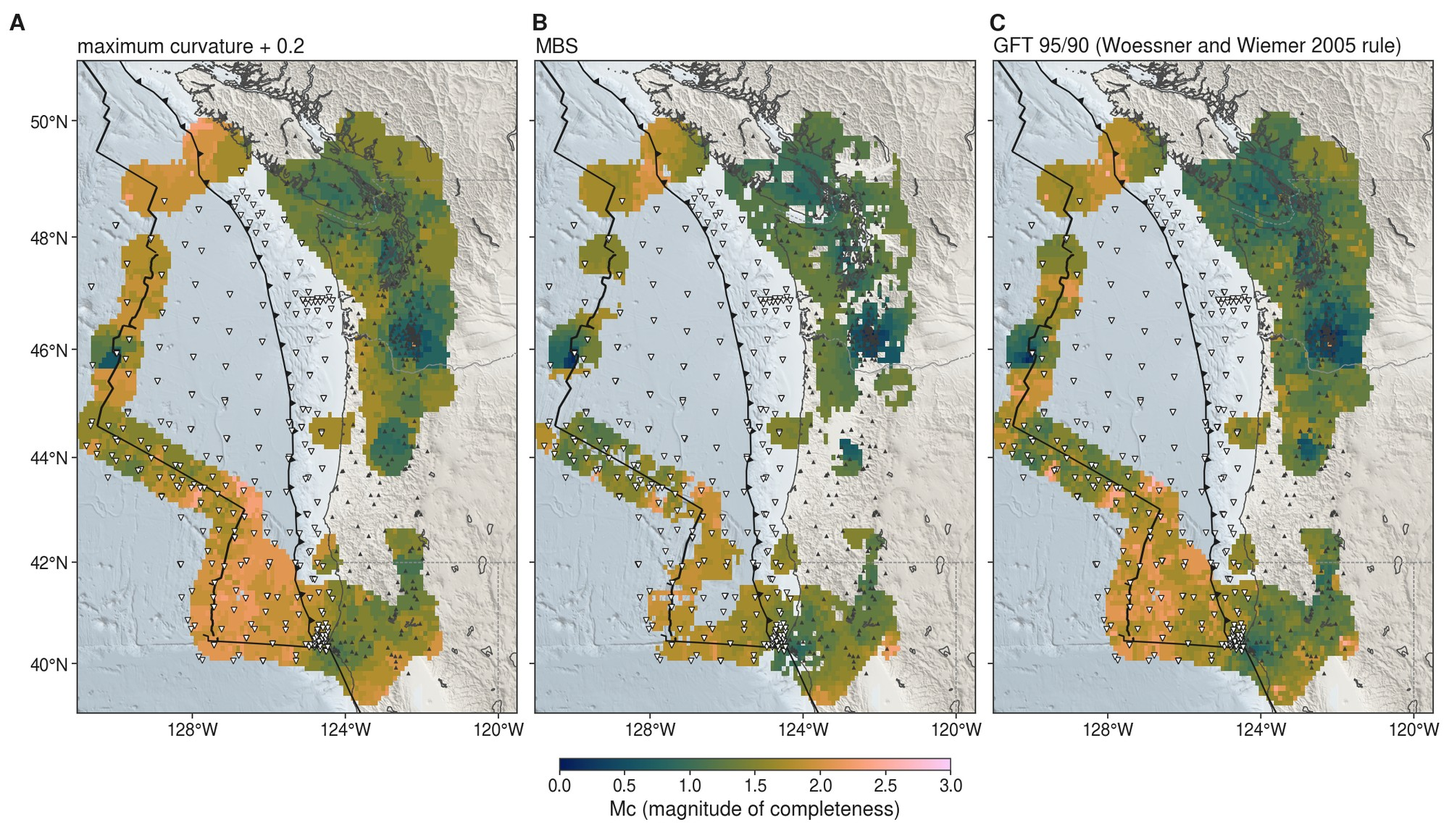
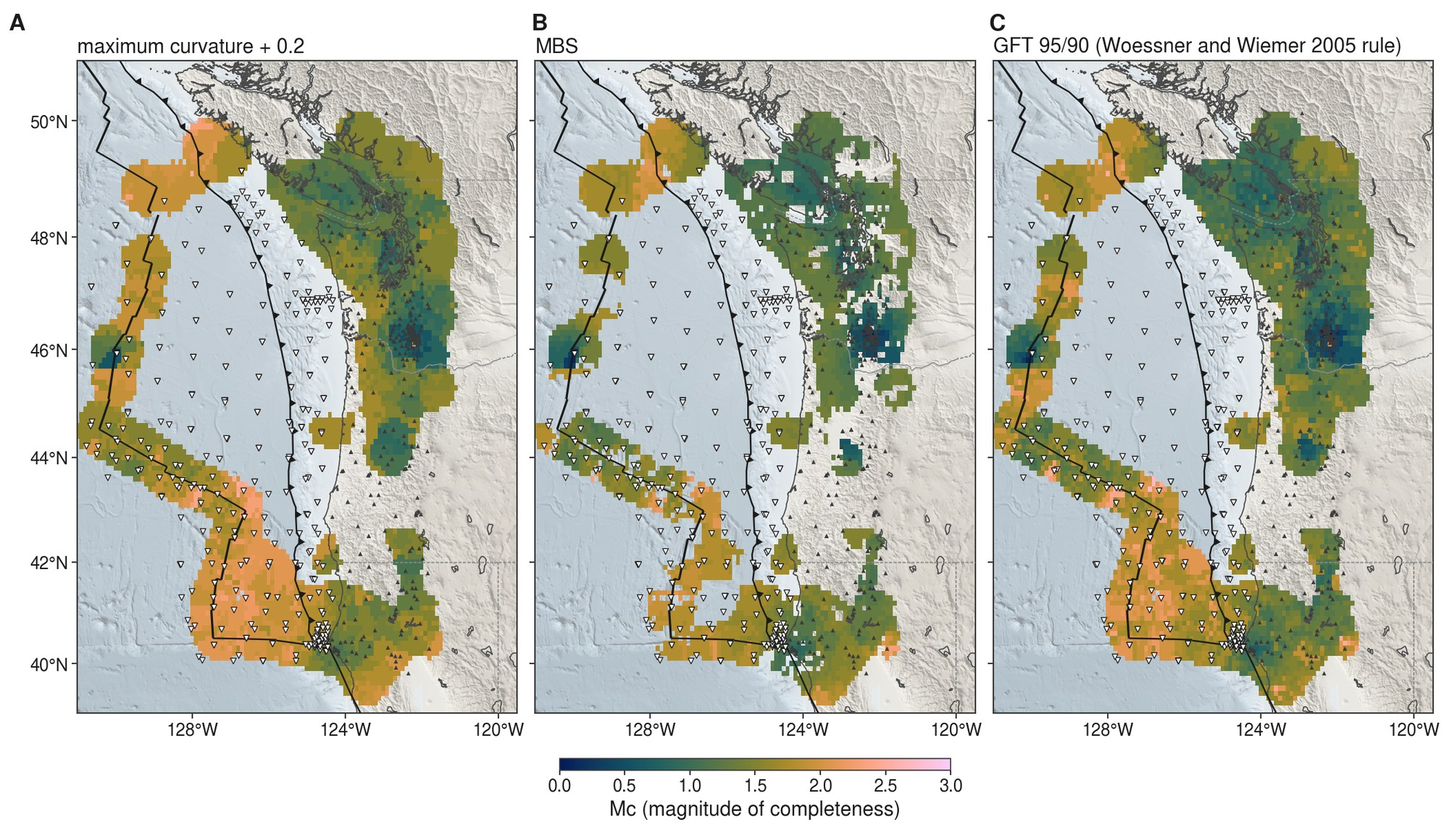
Reports hub: paper figures v2 rebuilt on plate boundaries v2 (D-B117) and the final null truth

diff --git a/reports/figures_v2/index.html b/reports/figures_v2/index.html
@@ -31,12 +31,13 @@ code { padding: 1px 4px; }
 <div class='meta'>D-B114 (PI 2026-11-27 13:13: "Make the paper figures more beautiful, even for the tomography"). Framing
 D-B107/D-B109: seismicity style and fault-zone structure at the offshore plate boundaries; structure only at
 plate-boundary scale (40 km); no full-size model maps. Catalog v6.1, model v0.4.2, segments
-after D-B113. Built Fri 27 Nov 2026 13:53 PST; branch paper/figures-v2 at 922d7582. Working page; nothing here is in
+on the adopted plate boundaries v2 (D-B117, PI 2026-11-27 19:09 PST), structure contrasts with the null-truth control
+scored (D-B112, 28 contrasts claimed). Built Fri 27 Nov 2026 19:30 PST; branch paper/figures-v2 at b96fbab8. Working page; nothing here is in
 paper_sciadv/figures/ yet (the PI picks first).</div>
 <div class='meta'>Web copies: JPEG, 2000 px wide. Full-resolution PDF (vector) and 300 dpi PNG are in <code>/wd1/mdenolle_data/paper_plan/figures_v2/</code>.</div>
 <p class='toc'><a href='#fig1_overview'>Fig. 1</a><a href='#fig2_fingerprint'>Fig. 2</a><a href='#fig3_fault_geometry'>Fig. 3</a><a href='#fig4_fault_zone_sections'>Fig. 4</a><a href='#fig5_structure_seismicity'>Fig. 5</a><a href='#fig6_temporal'>Fig. 6</a><a href='#figS_mc_methods'>Fig. S</a><a href='#figS_mc_periods'>Fig. S</a><a href='#figS_catalog_compare'>Fig. S</a><a href='#figS_perspective_mendocino'>Fig. S</a> <a href='#style'>Style</a> <a href='#rerun'>Rerun</a></p>
-<h2 id='main'>Main figures</h2><div class='fig' id='fig1_overview'><h3>Fig. 1 · Plate boundaries and data</h3><div class='meta'>17.8 × 17.7 cm · <a href='fig1_overview.jpg'>image</a> · built 2026-11-27 13:51:24 PST</div><a href='fig1_overview.jpg'><img loading='lazy' src='fig1_overview.jpg' alt='Fig. 1 · Plate boundaries and data'></a><div class='cap'><b>Caption draft.</b> Plate boundaries and data. (A) 135,317 tier A-C earthquakes of catalog v6.1 (flagged events and the waveform-review P1 set left out), coloured by the type of their segment; symbol size scales with magnitude (events without a magnitude drawn at M 0). Labels: segment codes; label fill gives the structure class of model v0.4.2 near the segment (black resolved, grey marginal, white not resolved). Black lines: plate boundaries (spreading axes of the southern Gorda Ridge, the Gorda-Mendocino stub and the Juan de Fuca Ridge at 46.4-47.7°N picked from the bathymetry, D-B113; PB2002 elsewhere); teeth on the upper plate. Arrows: NNR-MORVEL56 relative plate motions. Relief: GMRT. (B) 351 ocean-bottom stations (inverted triangles, colour = first year, 2009-2014) and 377 land stations (open triangles) with picks in the catalog. (C) Depth against longitude for the 104,642 depth-good events, same colours; lines: Slab2 at 42, 45 and 48°N. (D) Events per week (7-day bins). (E) Ocean-bottom and land stations operating per week.</div><div class='ba'><details><summary>Before: current paper figure fig1_overview.png</summary><img loading='lazy' src='before/fig1_overview.jpg' alt='current paper figure fig1_overview.png'></details></div></div><div class='fig' id='fig2_fingerprint'><h3>Fig. 2 · Seismicity-style fingerprint</h3><div class='meta'>17.8 × 10.02 cm · <a href='fig2_fingerprint.jpg'>image</a> · built 2026-11-27 13:51:24 PST</div><a href='fig2_fingerprint.jpg'><img loading='lazy' src='fig2_fingerprint.jpg' alt='Fig. 2 · Seismicity-style fingerprint'></a><div class='cap'><b>Caption draft.</b> Seismicity style of 19 plate-boundary segments of catalog v6.1 (tier A-C earthquakes; flagged events and the waveform-review P1 set left out), grouped by boundary type (colour and marker). Events: number of events. Mc: maximum curvature + 0.2; b: Aki-Utsu estimate above Mc; bars: 95 % intervals over 500 bootstrap draws. Family mix: shares of the events above the clustering Mc that are background, in mainshock-aftershock families, in swarms and in multiplets (nearest-neighbour clustering of the catalog); swarm share with its 95 % bootstrap interval over units. Depth below the solid surface (ground or seafloor) of depth-good events: p10-p90 bar and median (open symbol: depth class fair, median σz 3-6 km; no symbol: fewer than 50 depth-good events). Burstiness (σ − μ)/(σ + μ) of the inter-event times of events above the segment Mc. Square at the right of each label: structure class of model v0.4.2 near the segment (filled resolved, grey marginal, open not resolved). Segments: AX, JR, EN, EXR, GR, BL, MFZ, SOV, JP, GP, EXP, MTJ, GS, FA, SIF, IS, PU, MSH, CAS.</div><div class='ba'><details><summary>Before: current paper figure fig5_clustering.png</summary><img loading='lazy' src='before/fig5_clustering.jpg' alt='current paper figure fig5_clustering.png'></details><details><summary>Before: plan mock-up fig_fingerprint.png</summary><img loading='lazy' src='before/plan_fig_fingerprint.jpg' alt='plan mock-up fig_fingerprint.png'></details></div></div><div class='fig' id='fig3_fault_geometry'><h3>Fig. 3 · Fault geometry per boundary</h3><div class='meta'>17.8 × 17.78 cm · <a href='fig3_fault_geometry.jpg'>image</a> · built 2026-11-27 13:51:27 PST</div><a href='fig3_fault_geometry.jpg'><img loading='lazy' src='fig3_fault_geometry.jpg' alt='Fig. 3 · Fault geometry per boundary'></a><div class='cap'><b>Caption draft.</b> Fault surfaces v1 refit on catalog v6.1 by plate-boundary segment (95 surfaces in 8 segments). Top of each panel: plan view in the segment frame (x along the strike of the segment&#x27;s epicentres, y across, north arrow), GMRT relief, depth-good tier A-C events (dark grey: fit members of a surface); steep surfaces (dip ≥ 80°) as their top edge, dipping surfaces as their map footprint, coloured by dip; the across direction is exaggerated where printed. Bottom: depth against along-strike distance with each surface&#x27;s along-strike extent over the 2-98 % depth range of its depth-good members; VE = vertical exaggeration. 1 surface of the suspect Mount St Helens deep population (members deeper than 30 km) is left out. GR: 13 surfaces, 1,355 events; BL: 30 surfaces, 18,796 events; MFZ: 7 surfaces, 2,436 events; GP: 8 surfaces, 454 events; MTJ: 6 surfaces, 10,335 events; GS: 7 surfaces, 11,831 events; PU: 22 surfaces, 10,941 events; MSH: 2 surfaces, 7,568 events.</div><div class='ba'><details><summary>Before: current paper figure fig3_fault_surfaces.png</summary><img loading='lazy' src='before/fig3_fault_surfaces.jpg' alt='current paper figure fig3_fault_surfaces.png'></details><details><summary>Before: current paper figure fig4_blanco_strands.png</summary><img loading='lazy' src='before/fig4_blanco_strands.jpg' alt='current paper figure fig4_blanco_strands.png'></details></div></div><div class='fig' id='fig4_fault_zone_sections'><h3>Fig. 4 · Fault-zone tomography</h3><div class='meta'>17.8 × 15.83 cm · <a href='fig4_fault_zone_sections.jpg'>image</a> · built 2026-11-27 13:52:53 PST</div><a href='fig4_fault_zone_sections.jpg'><img loading='lazy' src='fig4_fault_zone_sections.jpg' alt='Fig. 4 · Fault-zone tomography'></a><div class='cap'><b>Caption draft.</b> Fault-zone structure of model v0.4.2 at the resolved plate-boundary segments. Each panel pair is a section normal to the segment (BL, MFZ, GP, MTJ, PU, MSH), stacked along strike over the extent of the segment&#x27;s events (length above each panel) and binned at 5 km in distance (MTJ 10 km: few resolved nodes per 5 km bin) and by depth layer. Top: Vp; bottom: Vp/Vs. Colour: the mean of the resolved nodes of a bin (at least 2; rock and checkerboard-resolved or DWS ≥ 100; P for Vp, P and S for Vp/Vs). Opacity: 1σ of the same bin mean over the 100 ensemble members (× 1.5 for Vp, × 1 for Vp/Vs); full colour at ≤ 0.05 km/s and ≤ 0.01, faintest at ≥ 0.25 km/s and ≥ 0.05. Hatched: rock bins without resolved nodes. Pale blue: water. Dots: depth-good tier A-C events of the segment (catalog v6.1). Solid line: Vp 7.5 km/s; dashed: Slab2. Text: depth-matched contrasts of the segment that pass 2σ of the ensemble and the synthetic S95 (D-B111); the null-truth control (D-B112) is pending. Frames: PB2002 transform trace re-centred on the seismicity (BL, MFZ), the strike line of the segment&#x27;s epicentres (GP, PU, MSH), a north-south line at 124.75°W (triple junction and Gorda slab). Vertical exaggeration 1.5. The model resolves structure on a 40 km scale, not a fault damage zone.</div><div class='ba'><details><summary>Before: plan mock-up fig_sections_BL_MFZ.png</summary><img loading='lazy' src='before/plan_fig_sections_BL_MFZ.jpg' alt='plan mock-up fig_sections_BL_MFZ.png'></details></div></div><div class='fig' id='fig5_structure_seismicity'><h3>Fig. 5 · Structure against seismicity</h3><div class='meta'>17.8 × 15.4 cm · <a href='fig5_structure_seismicity.jpg'>image</a> · built 2026-11-27 13:51:37 PST</div><a href='fig5_structure_seismicity.jpg'><img loading='lazy' src='fig5_structure_seismicity.jpg' alt='Fig. 5 · Structure against seismicity'></a><div class='cap'><b>Caption draft.</b> Structure against seismicity. (A-D) Seismicity bottom against the Vp 7.5 km/s level per model column (0.125° × 0.1°, at least 20 depth-good tier A-C events and a resolved level): D90, the 90th percentile of event depth, against the depth of the first Vp crossing of 7.5 km/s between two resolved nodes; symbol size grows with the number of events; grey line 1:1. ρ: Spearman rank correlation; p: share of 1000 permutations of the levels among the segment&#x27;s columns with a smaller spread of D90 − level (GS: ρ = 0.53, p = 0.001). (E) Share of the depth-good events below the 7.5 km/s level, segments with a resolved level for at least 30 % of their events; bar: 5-95 % over the ensemble members, each with its own level. (F-H) Depth-matched contrasts of Vp, Vs and Vp/Vs of model v0.4.2 for the resolved and marginal segments: near−far (nodes within 5 km of the segment&#x27;s faults and seismicity minus nodes 10-20 km away), across (the two sides of the segment&#x27;s strike line) and along (the two ends of the segment); bar: ±2σ of the same contrast over the 100 ensemble members (× 1.50 Vp, × 1.35 Vs, × 1.00 Vp/Vs); grey band: ±S95, the 95th percentile of |recovered − true| contrast over the 100 members of the synthetic calibration ensemble (D-B111); filled: |Δ| ≥ 2σ and ≥ S95 (the null-truth control, D-B112, is pending); 32 contrasts pass. Colour and marker of the segment type as in Fig. 2.</div><div class='ba'><details><summary>Before: plan mock-up fig_circularity.png</summary><img loading='lazy' src='before/plan_fig_circularity.jpg' alt='plan mock-up fig_circularity.png'></details></div></div><div class='fig' id='fig6_temporal'><h3>Fig. 6 · Temporal character</h3><div class='meta'>17.8 × 14.46 cm · <a href='fig6_temporal.jpg'>image</a> · built 2026-11-27 13:51:39 PST</div><a href='fig6_temporal.jpg'><img loading='lazy' src='fig6_temporal.jpg' alt='Fig. 6 · Temporal character'></a><div class='cap'><b>Caption draft.</b> Temporal character of four boundary types, catalog v6.1 with its nearest-neighbour clustering. (A) Axial Seamount, October 2014 to June 2015: events at or above the regional clustering Mc (0.65) per week and swarm families per month (32 families); red line: 24 April 2015 eruption. (B) West Blanco swarm family of June 2015: distance along 111° against time, first 12 days (507 of 854 events); stars: M ≥ 5. (C) Gorda plate source near 41.85°N 126.1°W: tier A-C events (597) coloured by time, fault surfaces v1 (top edges, 3), ComCat moment tensors (dark: 2010-2016, grey: other years; labels: year). (D) Mendocino transform between 40.25 and 40.62°N, 2012-2016: longitude against time (3,911 events); shading: weeks with ocean-bottom stations within 120 km; stars: ComCat Mw ≥ 5 (6). (E) Largest swarm family within 25 km of the Mount St Helens summit, 20.7 km NW of it (379 tier A-C events): distance along its long axis (123°) against time on a log scale. Symbol size scales with magnitude; colours by boundary type as in Fig. 1 (C: time). Burstiness of the segment (events ≥ segment Mc, whole period; 0 = Poisson, 1 = most bursty): AX 0.88, BL 0.67, GP 0.41, MFZ 0.56, MSH 0.14.</div><div class='ba'><details><summary>Before: current paper figure fig6_short_lived.png</summary><img loading='lazy' src='before/fig6_short_lived.jpg' alt='current paper figure fig6_short_lived.png'></details></div></div><h2 id='supplement'>Supplement</h2><div class='fig' id='figS_mc_methods'><h3>Fig. S · Mc, three methods</h3><div class='meta'>17.8 × 10.27 cm · <a href='figS_mc_methods.jpg'>image</a> · built 2026-11-27 13:51:44 PST</div><a href='figS_mc_methods.jpg'><img loading='lazy' src='figS_mc_methods.jpg' alt='Fig. S · Mc, three methods'></a><div class='cap'><b>Caption draft.</b> Magnitude of completeness of catalog v6.1 at 0.1° nodes (the 250 nearest events within 50 km; flagged events left out; 200 bootstrap draws), by three methods: (A) maximum curvature + 0.2, (B) MBS, (C) GFT at 95 % goodness of fit, else 90 %, else maximum curvature (Woessner and Wiemer, 2005). Nodes with Mc: 4,422; median Mc (C) 1.40. Inverted triangles: 351 ocean-bottom stations; small triangles: 377 land stations.</div><div class='ba'><details><summary>Before: current paper figure fig2a_mc_three_methods.png</summary><img loading='lazy' src='before/fig2a_mc_three_methods.jpg' alt='current paper figure fig2a_mc_three_methods.png'></details></div></div><div class='fig' id='figS_mc_periods'><h3>Fig. S · Mc by network period</h3><div class='meta'>17.8 × 7.01 cm · <a href='figS_mc_periods.jpg'>image</a> · built 2026-11-27 13:51:44 PST</div><a href='figS_mc_periods.jpg'><img loading='lazy' src='figS_mc_periods.jpg' alt='Fig. S · Mc by network period'></a><div class='cap'><b>Caption draft.</b> Magnitude of completeness of catalog v6.1 by network period (mc_best: GFT 95/90, else maximum curvature; the 150 nearest events within 50 km): (A-D) 2010 (1,100 nodes), 2011-2012 (2,524 nodes), 2013-2015 (4,289 nodes), 2016 (655 nodes); (E) largest minus smallest Mc at nodes with a value in at least two periods (2,563 nodes, median 0.20). Triangles: stations operating in the period (E: all).</div><div class='ba'><details><summary>Before: current paper figure fig2b_mc_periods.png</summary><img loading='lazy' src='before/fig2b_mc_periods.jpg' alt='current paper figure fig2b_mc_periods.png'></details></div></div><div class='fig' id='figS_catalog_compare'><h3>Fig. S · Catalog comparison</h3><div class='meta'>17.8 × 12.45 cm · <a href='figS_catalog_compare.jpg'>image</a> · built 2026-11-27 13:51:44 PST</div><a href='figS_catalog_compare.jpg'><img loading='lazy' src='figS_catalog_compare.jpg' alt='Fig. S · Catalog comparison'></a><div class='cap'><b>Caption draft.</b> Catalog versions compared region by region against the reference v4.1 (v4.1, v5.1, v6.0, v6.1). (A) Depth below sea level: median (symbol) and 10th-90th percentiles (bar). (B) Depth minus the ANSS depth for events with a station within max(depth, 5 km): median and median absolute deviation, regions with at least 10 such events. (C) Share of events above the local solid surface. (D) Depth change and (E) horizontal shift of v6.1 against v4.1 for the 171,996 events located in both (linked by the v4 event id); values beyond ±20 km in the end bins.</div><div class='ba'><details><summary>Before: current paper figure figS_catalog_compare.png</summary><img loading='lazy' src='before/figS_catalog_compare.jpg' alt='current paper figure figS_catalog_compare.png'></details></div></div><div class='fig' id='figS_perspective_mendocino'><h3>Fig. S · Mendocino perspective view</h3><div class='meta'>17.06 × 10.48 cm · <a href='figS_perspective_mendocino.jpg'>image</a> · built 2026-11-27 13:51:49 PST</div><a href='figS_perspective_mendocino.jpg'><img loading='lazy' src='figS_perspective_mendocino.jpg' alt='Fig. S · Mendocino perspective view'></a><div class='cap'><b>Caption draft.</b> Perspective view of the Mendocino region (125.6° to 123.2°W, 39.6° to 41.4°N, to 40 km depth) from azimuth 210°, elevation 26°, vertical exaggeration 1.5:1. Relief: GMRT (gmrt_-125.6_-123.2_39.6_41.4_med.nc). Fault surfaces v1 refit on catalog v6.1 (24 surfaces with their centre in the box): rectangle and top edge, coloured by dip. Tier A-C events of the catalog (29,632; dark grey: fit members of a surface); symbol size scales with magnitude.</div><div class='ba'><details><summary>Before: current paper figure perspective_mendocino_fault.png</summary><img loading='lazy' src='before/perspective_mendocino_fault.jpg' alt='current paper figure perspective_mendocino_fault.png'></details></div></div>
-<h2 id='style'>Style</h2><table><tr><th>Sizes</th><td>Science Advances widths 8.6 cm (one column) and 17.8 cm (two columns); every figure here is 17.8 cm wide and at most 22 cm tall.</td></tr><tr><th>Type</th><td>One sans-serif family (Helvetica metrics: Nimbus Sans in matplotlib, Helvetica in GMT), 6 pt ticks and notes, 7 pt labels and titles, 8 pt bold panel letters A, B, C at the top-left corner of each panel.</td></tr><tr><th>Lines</th><td>Frames and ticks 0.5 pt; hairline grids (0.35 pt, solid, light grey) only where values are read; data lines 0.9 pt; ridges 1.1 pt, transforms and trench 0.8 pt with filled teeth on the upper plate.</td></tr><tr><th>Base map</th><td>GMRT relief (GridServer &#x27;med&#x27; tiles mosaicked once into the cache) as a light hillshade from the north-west: grey-blue sea darkening with depth, warm light-grey land; coast 0.4 pt.</td></tr><tr><th>Plate boundaries</th><td>PB2002 with the D-B113 bathymetric axes (southern Gorda Ridge, Gorda-Mendocino stub, JdF Ridge 46.4-47.7 N) in place of the PB2002 ridges and oceanic transforms.</td></tr><tr><th>Boundary types</th><td>One colour and one marker per type (ridge, transform, intraplate, triple junction, subduction, crustal, arc; other in grey), checked under protanopia, deuteranopia and tritanopia (Machado 2009); the marker or the segment code always rides with the colour.</td></tr><tr><th>Colour maps</th><td>Crameri SCM (D-B104): Vp batlow reversed (one range 5.6-8.2 km/s), Vp/Vs roma reversed centred on 1.75 (1.60-1.90), dV vik reversed; time lipari, Mc batlow, depth lajolla, surface dip acton.</td></tr><tr><th>Uncertainty</th><td>Fig. 4: the ensemble 1σ of each binned value is its opacity (full colour at small σ, faint at large σ, 2-D key); cells without resolved nodes hatched grey; the water column pale blue.</td></tr><tr><th>Events</th><td>Symbol area from magnitude, one law for all figures (diameter 0.8 pt × 10^(0.2 M)); dense clouds as small translucent dots; size key where size carries magnitude.</td></tr><tr><th>Map furniture</th><td>Scale bar and north arrow on maps; NNR-MORVEL56 relative plate motions as cased arrows.</td></tr><tr><th>No dual axes</th><td>The old Fig. 1D and Fig. 6A each had two y axes; both are now two stacked panels on one time axis.</td></tr><tr><th>Output</th><td>Vector PDF (fonts embedded, dense layers rasterised at 300 dpi) and 300 dpi PNG per figure.</td></tr></table><h3 style='margin-top:22px'>Boundary-type palette</h3><table><tr><th>type</th><th>colour</th><th>marker</th><th>OKLCH L</th><th>OKLCH C</th><th>contrast on white</th></tr><tr><td>ridge</td><td><span class='sw' style='background:#2B6CB0'></span>#2B6CB0</td><td>o</td><td>0.524</td><td>0.126</td><td>5.42</td></tr><tr><td>transform</td><td><span class='sw' style='background:#E06A2C'></span>#E06A2C</td><td>s</td><td>0.657</td><td>0.164</td><td>3.35</td></tr><tr><td>intraplate</td><td><span class='sw' style='background:#16A4AE'></span>#16A4AE</td><td>D</td><td>0.656</td><td>0.108</td><td>3.02</td></tr><tr><td>triple junction</td><td><span class='sw' style='background:#6E4BA3'></span>#6E4BA3</td><td>h</td><td>0.493</td><td>0.138</td><td>6.57</td></tr><tr><td>subduction</td><td><span class='sw' style='background:#557A1F'></span>#557A1F</td><td>v</td><td>0.533</td><td>0.125</td><td>5.01</td></tr><tr><td>crustal</td><td><span class='sw' style='background:#D9A21B'></span>#D9A21B</td><td>^</td><td>0.744</td><td>0.147</td><td>2.3</td></tr><tr><td>arc</td><td><span class='sw' style='background:#D35D8E'></span>#D35D8E</td><td>P</td><td>0.639</td><td>0.157</td><td>3.67</td></tr></table><table><tr><th>pairs</th><th>worst CVD ΔE (protan/deutan)</th><th>worst normal ΔE</th><th>worst tritan ΔE</th><th>verdict</th></tr><tr><td>adjacent (legend order)</td><td>17.0 (subduction / crustal)</td><td>23.4 (crustal / arc)</td><td>7.9 (triple junction / subduction)</td><td>pass</td></tr><tr><td>all pairs</td><td>2.9 (ridge / triple junction)</td><td>11.1 (ridge / triple junction)</td><td>4.2 (transform / arc)</td><td>below floor: marker and label carry identity</td></tr><tr><td>map neighbours</td><td>14.0 (arc / subduction)</td><td>16.5 (ridge / intraplate)</td><td>7.9 (triple junction / subduction)</td><td>pass</td></tr></table><p class='meta'>OKLab ΔE × 100; target ≥ 8 under dichromacy and ≥ 15 for normal vision (dataviz method). Seven hues cannot all be pairwise distinct under dichromacy, so the marker and the segment code carry identity wherever colours meet; the adjacent legend pairs and every pair of types that touch on the map pass.</p><img src='palette_types_cvd.jpg' style='max-width:100%' alt='palette under colour-vision deficiency'>
+<h2 id='main'>Main figures</h2><div class='fig' id='fig1_overview'><h3>Fig. 1 · Plate boundaries and data</h3><div class='meta'>17.8 × 17.7 cm · <a href='fig1_overview.jpg'>image</a> · built 2026-11-27 19:29:51 PST</div><a href='fig1_overview.jpg'><img loading='lazy' src='fig1_overview.jpg' alt='Fig. 1 · Plate boundaries and data'></a><div class='cap'><b>Caption draft.</b> Plate boundaries and data. (A) 135,317 tier A-C earthquakes of catalog v6.1 (flagged events and the waveform-review P1 set left out), coloured by the type of their segment; symbol size scales with magnitude (events without a magnitude drawn at M 0); grey: events outside the plate-boundary segments. Labels: segment codes; label fill gives the structure class of model v0.4.2 near the segment (black resolved, grey marginal, white not resolved). Black lines: plate boundaries v2 (D-B117): Gorda Ridge on its axial valley, Juan de Fuca Ridge on its bathymetric axis (Endeavour from MAPRIDGES), Blanco and Mendocino transforms as straight segments fitted to the relocated seismicity with their step-overs, Mendocino joined to the PB2002 triple junction by a connector; subduction trace PB2002, teeth on the upper plate; thin dashed grey: PB2002 ridges and transforms for reference. Arrows: NNR-MORVEL56 relative plate motions. Relief: GMRT. (B) 351 ocean-bottom stations (inverted triangles, colour = first year, 2009-2014) and 377 land stations (open triangles) with picks in the catalog. (C) Depth against longitude for the 104,642 depth-good events, same colours; lines: Slab2 at 42, 45 and 48°N. (D) Events per week (7-day bins). (E) Ocean-bottom and land stations operating per week.</div><div class='ba'><details><summary>Before: current paper figure fig1_overview.png</summary><img loading='lazy' src='before/fig1_overview.jpg' alt='current paper figure fig1_overview.png'></details></div></div><div class='fig' id='fig2_fingerprint'><h3>Fig. 2 · Seismicity-style fingerprint</h3><div class='meta'>17.8 × 10.02 cm · <a href='fig2_fingerprint.jpg'>image</a> · built 2026-11-27 19:29:51 PST</div><a href='fig2_fingerprint.jpg'><img loading='lazy' src='fig2_fingerprint.jpg' alt='Fig. 2 · Seismicity-style fingerprint'></a><div class='cap'><b>Caption draft.</b> Seismicity style of 19 plate-boundary segments of catalog v6.1 (tier A-C earthquakes; flagged events and the waveform-review P1 set left out), grouped by boundary type (colour and marker). Events: number of events. Mc: maximum curvature + 0.2; b: Aki-Utsu estimate above Mc; bars: 95 % intervals over 500 bootstrap draws. Family mix: shares of the events above the clustering Mc that are background, in mainshock-aftershock families, in swarms and in multiplets (nearest-neighbour clustering of the catalog); swarm share with its 95 % bootstrap interval over units. Depth below the solid surface (ground or seafloor) of depth-good events: p10-p90 bar and median (open symbol: depth class fair, median σz 3-6 km; no symbol: fewer than 50 depth-good events). Burstiness (σ − μ)/(σ + μ) of the inter-event times of events above the segment Mc. Square at the right of each label: structure class of model v0.4.2 near the segment (filled resolved, grey marginal, open not resolved). Segments: AX, JR, EN, EXR, GR, BL, MFZ, SOV, JP, GP, EXP, MTJ, GS, FA, SIF, IS, PU, MSH, CAS.</div><div class='ba'><details><summary>Before: current paper figure fig5_clustering.png</summary><img loading='lazy' src='before/fig5_clustering.jpg' alt='current paper figure fig5_clustering.png'></details><details><summary>Before: plan mock-up fig_fingerprint.png</summary><img loading='lazy' src='before/plan_fig_fingerprint.jpg' alt='plan mock-up fig_fingerprint.png'></details></div></div><div class='fig' id='fig3_fault_geometry'><h3>Fig. 3 · Fault geometry per boundary</h3><div class='meta'>17.8 × 17.78 cm · <a href='fig3_fault_geometry.jpg'>image</a> · built 2026-11-27 19:29:54 PST</div><a href='fig3_fault_geometry.jpg'><img loading='lazy' src='fig3_fault_geometry.jpg' alt='Fig. 3 · Fault geometry per boundary'></a><div class='cap'><b>Caption draft.</b> Fault surfaces v1 refit on catalog v6.1 by plate-boundary segment (95 surfaces in 8 segments). Top of each panel: plan view in the segment frame (x along the strike of the segment&#x27;s epicentres, y across, north arrow), GMRT relief, depth-good tier A-C events (dark grey: fit members of a surface); steep surfaces (dip ≥ 80°) as their top edge, dipping surfaces as their map footprint, coloured by dip; the across direction is exaggerated where printed. Bottom: depth against along-strike distance with each surface&#x27;s along-strike extent over the 2-98 % depth range of its depth-good members; VE = vertical exaggeration. 1 surface of the suspect Mount St Helens deep population (members deeper than 30 km) is left out. GR: 13 surfaces, 1,373 events; BL: 30 surfaces, 18,796 events; MFZ: 8 surfaces, 2,515 events; GP: 7 surfaces, 356 events; MTJ: 6 surfaces, 10,335 events; GS: 7 surfaces, 11,831 events; PU: 22 surfaces, 10,941 events; MSH: 2 surfaces, 7,568 events.</div><div class='ba'><details><summary>Before: current paper figure fig3_fault_surfaces.png</summary><img loading='lazy' src='before/fig3_fault_surfaces.jpg' alt='current paper figure fig3_fault_surfaces.png'></details><details><summary>Before: current paper figure fig4_blanco_strands.png</summary><img loading='lazy' src='before/fig4_blanco_strands.jpg' alt='current paper figure fig4_blanco_strands.png'></details></div></div><div class='fig' id='fig4_fault_zone_sections'><h3>Fig. 4 · Fault-zone tomography</h3><div class='meta'>17.8 × 15.83 cm · <a href='fig4_fault_zone_sections.jpg'>image</a> · built 2026-11-27 19:30:03 PST</div><a href='fig4_fault_zone_sections.jpg'><img loading='lazy' src='fig4_fault_zone_sections.jpg' alt='Fig. 4 · Fault-zone tomography'></a><div class='cap'><b>Caption draft.</b> Fault-zone structure of model v0.4.2 at the resolved plate-boundary segments. Each panel pair is a section normal to the segment (BL, MFZ, GP, MTJ, PU, MSH), stacked along strike over the extent of the segment&#x27;s events (length above each panel) and binned at 5 km in distance (MTJ 10 km: few resolved nodes per 5 km bin) and by depth layer. Top: Vp; bottom: Vp/Vs. Colour: the mean of the resolved nodes of a bin (at least 2; rock and checkerboard-resolved or DWS ≥ 100; P for Vp, P and S for Vp/Vs). Opacity: 1σ of the same bin mean over the 100 ensemble members (× 1.5 for Vp, × 1 for Vp/Vs); full colour at ≤ 0.05 km/s and ≤ 0.01, faintest at ≥ 0.25 km/s and ≥ 0.05. Hatched: rock bins without resolved nodes. Pale blue: water. Dots: depth-good tier A-C events of the segment (catalog v6.1). Solid line: Vp 7.5 km/s (closed loops around a single bin left out); dashed: Slab2. Text: depth-matched contrasts of the segment that pass the controls (2σ of the ensemble, synthetic S95 and the null truth N95; D-B111, D-B112). Frames: the transform strands of the plate boundaries v2 (D-B117; distance from the nearest strand, step-overs and connectors left out) re-centred on the seismicity (BL, MFZ), the strike line of the segment&#x27;s epicentres (GP, PU, MSH), a line through the PB2002 triple junction along the trench azimuth (344.5°; triple junction and Gorda slab). Vertical exaggeration 1.5. The model resolves structure on a 40 km scale, not a fault damage zone.</div><div class='ba'><details><summary>Before: plan mock-up fig_sections_BL_MFZ.png</summary><img loading='lazy' src='before/plan_fig_sections_BL_MFZ.jpg' alt='plan mock-up fig_sections_BL_MFZ.png'></details></div></div><div class='fig' id='fig5_structure_seismicity'><h3>Fig. 5 · Structure against seismicity</h3><div class='meta'>17.8 × 15.4 cm · <a href='fig5_structure_seismicity.jpg'>image</a> · built 2026-11-27 19:30:04 PST</div><a href='fig5_structure_seismicity.jpg'><img loading='lazy' src='fig5_structure_seismicity.jpg' alt='Fig. 5 · Structure against seismicity'></a><div class='cap'><b>Caption draft.</b> Structure against seismicity. (A-D) Seismicity bottom against the Vp 7.5 km/s level per model column (0.125° × 0.1°, at least 20 depth-good tier A-C events and a resolved level): D90, the 90th percentile of event depth, against the depth of the first Vp crossing of 7.5 km/s between two resolved nodes; symbol size grows with the number of events; grey line 1:1. ρ: Spearman rank correlation; p: share of 1000 permutations of the levels among the segment&#x27;s columns with a smaller spread of D90 − level (GS: ρ = 0.53, p = 0.001). (E) Share of the depth-good events below the 7.5 km/s level, segments with a resolved level for at least 30 % of their events; bar: 5-95 % over the ensemble members, each with its own level. (F-H) Depth-matched contrasts of Vp, Vs and Vp/Vs of model v0.4.2 for the resolved and marginal segments: near−far (nodes within 5 km of the segment&#x27;s faults and seismicity minus nodes 10-20 km away), across (the two sides of the segment&#x27;s strike line) and along (the two ends of the segment); bar: ±2σ of the same contrast over the 100 ensemble members (× 1.50 Vp, × 1.35 Vs, × 1.00 Vp/Vs); grey band: ±S95, the 95th percentile of |recovered − true| contrast over the 100 members of the synthetic calibration ensemble (D-B111); hatched band: ±N95 over the null-truth members (D-B112); filled: |Δ| ≥ 2σ, ≥ S95 and ≥ N95; 28 contrasts pass. Colour and marker of the segment type as in Fig. 2.</div><div class='ba'><details><summary>Before: plan mock-up fig_circularity.png</summary><img loading='lazy' src='before/plan_fig_circularity.jpg' alt='plan mock-up fig_circularity.png'></details></div></div><div class='fig' id='fig6_temporal'><h3>Fig. 6 · Temporal character</h3><div class='meta'>17.8 × 14.46 cm · <a href='fig6_temporal.jpg'>image</a> · built 2026-11-27 19:30:06 PST</div><a href='fig6_temporal.jpg'><img loading='lazy' src='fig6_temporal.jpg' alt='Fig. 6 · Temporal character'></a><div class='cap'><b>Caption draft.</b> Temporal character of four boundary types, catalog v6.1 with its nearest-neighbour clustering. (A) Axial Seamount, October 2014 to June 2015: events at or above the regional clustering Mc (0.65) per week and swarm families per month (32 families); red line: 24 April 2015 eruption. (B) West Blanco swarm family of June 2015: distance along 111° against time, first 12 days (507 of 854 events); stars: M ≥ 5. (C) Gorda plate source near 41.85°N 126.1°W: tier A-C events (597) coloured by time, fault surfaces v1 (top edges, 3), ComCat moment tensors (dark: 2010-2016, grey: other years; labels: year). (D) Mendocino transform between 40.25 and 40.62°N, 2012-2016: longitude against time (3,911 events); shading: weeks with ocean-bottom stations within 120 km; stars: ComCat Mw ≥ 5 (6). (E) Largest swarm family within 25 km of the Mount St Helens summit, 20.7 km NW of it (379 tier A-C events): distance along its long axis (123°) against time on a log scale. Symbol size scales with magnitude; colours by boundary type as in Fig. 1 (C: time). Burstiness of the segment (events ≥ segment Mc, whole period; 0 = Poisson, 1 = most bursty): AX 0.88, BL 0.67, GP 0.40, MFZ 0.61, MSH 0.14.</div><div class='ba'><details><summary>Before: current paper figure fig6_short_lived.png</summary><img loading='lazy' src='before/fig6_short_lived.jpg' alt='current paper figure fig6_short_lived.png'></details></div></div><h2 id='supplement'>Supplement</h2><div class='fig' id='figS_mc_methods'><h3>Fig. S · Mc, three methods</h3><div class='meta'>17.8 × 10.27 cm · <a href='figS_mc_methods.jpg'>image</a> · built 2026-11-27 19:30:11 PST</div><a href='figS_mc_methods.jpg'><img loading='lazy' src='figS_mc_methods.jpg' alt='Fig. S · Mc, three methods'></a><div class='cap'><b>Caption draft.</b> Magnitude of completeness of catalog v6.1 at 0.1° nodes (the 250 nearest events within 50 km; flagged events left out; 200 bootstrap draws), by three methods: (A) maximum curvature + 0.2, (B) MBS, (C) GFT at 95 % goodness of fit, else 90 %, else maximum curvature (Woessner and Wiemer, 2005). Nodes with Mc: 4,422; median Mc (C) 1.40. Inverted triangles: 351 ocean-bottom stations; small triangles: 377 land stations.</div><div class='ba'><details><summary>Before: current paper figure fig2a_mc_three_methods.png</summary><img loading='lazy' src='before/fig2a_mc_three_methods.jpg' alt='current paper figure fig2a_mc_three_methods.png'></details></div></div><div class='fig' id='figS_mc_periods'><h3>Fig. S · Mc by network period</h3><div class='meta'>17.8 × 7.01 cm · <a href='figS_mc_periods.jpg'>image</a> · built 2026-11-27 19:30:11 PST</div><a href='figS_mc_periods.jpg'><img loading='lazy' src='figS_mc_periods.jpg' alt='Fig. S · Mc by network period'></a><div class='cap'><b>Caption draft.</b> Magnitude of completeness of catalog v6.1 by network period (mc_best: GFT 95/90, else maximum curvature; the 150 nearest events within 50 km): (A-D) 2010 (1,100 nodes), 2011-2012 (2,524 nodes), 2013-2015 (4,289 nodes), 2016 (655 nodes); (E) largest minus smallest Mc at nodes with a value in at least two periods (2,563 nodes, median 0.20). Triangles: stations operating in the period (E: all).</div><div class='ba'><details><summary>Before: current paper figure fig2b_mc_periods.png</summary><img loading='lazy' src='before/fig2b_mc_periods.jpg' alt='current paper figure fig2b_mc_periods.png'></details></div></div><div class='fig' id='figS_catalog_compare'><h3>Fig. S · Catalog comparison</h3><div class='meta'>17.8 × 12.45 cm · <a href='figS_catalog_compare.jpg'>image</a> · built 2026-11-27 19:30:11 PST</div><a href='figS_catalog_compare.jpg'><img loading='lazy' src='figS_catalog_compare.jpg' alt='Fig. S · Catalog comparison'></a><div class='cap'><b>Caption draft.</b> Catalog versions compared region by region against the reference v4.1 (v4.1, v5.1, v6.0, v6.1). (A) Depth below sea level: median (symbol) and 10th-90th percentiles (bar). (B) Depth minus the ANSS depth for events with a station within max(depth, 5 km): median and median absolute deviation, regions with at least 10 such events. (C) Share of events above the local solid surface. (D) Depth change and (E) horizontal shift of v6.1 against v4.1 for the 171,996 events located in both (linked by the v4 event id); values beyond ±20 km in the end bins.</div><div class='ba'><details><summary>Before: current paper figure figS_catalog_compare.png</summary><img loading='lazy' src='before/figS_catalog_compare.jpg' alt='current paper figure figS_catalog_compare.png'></details></div></div><div class='fig' id='figS_perspective_mendocino'><h3>Fig. S · Mendocino perspective view</h3><div class='meta'>17.06 × 10.48 cm · <a href='figS_perspective_mendocino.jpg'>image</a> · built 2026-11-27 19:30:16 PST</div><a href='figS_perspective_mendocino.jpg'><img loading='lazy' src='figS_perspective_mendocino.jpg' alt='Fig. S · Mendocino perspective view'></a><div class='cap'><b>Caption draft.</b> Perspective view of the Mendocino region (125.6° to 123.2°W, 39.6° to 41.4°N, to 40 km depth) from azimuth 210°, elevation 26°, vertical exaggeration 1.5:1. Relief: GMRT (gmrt_-125.6_-123.2_39.6_41.4_med.nc). Fault surfaces v1 refit on catalog v6.1 (24 surfaces with their centre in the box): rectangle and top edge, coloured by dip. Tier A-C events of the catalog (29,632; dark grey: fit members of a surface); symbol size scales with magnitude.</div><div class='ba'><details><summary>Before: current paper figure perspective_mendocino_fault.png</summary><img loading='lazy' src='before/perspective_mendocino_fault.jpg' alt='current paper figure perspective_mendocino_fault.png'></details></div></div>
+<h2 id='style'>Style</h2><table><tr><th>Sizes</th><td>Science Advances widths 8.6 cm (one column) and 17.8 cm (two columns); every figure here is 17.8 cm wide and at most 22 cm tall.</td></tr><tr><th>Type</th><td>One sans-serif family (Helvetica metrics: Nimbus Sans in matplotlib, Helvetica in GMT), 6 pt ticks and notes, 7 pt labels and titles, 8 pt bold panel letters A, B, C at the top-left corner of each panel.</td></tr><tr><th>Lines</th><td>Frames and ticks 0.5 pt; hairline grids (0.35 pt, solid, light grey) only where values are read; data lines 0.9 pt; ridges 1.1 pt, transforms and trench 0.8 pt with filled teeth on the upper plate.</td></tr><tr><th>Base map</th><td>GMRT relief (GridServer &#x27;med&#x27; tiles mosaicked once into the cache) as a light hillshade from the north-west: grey-blue sea darkening with depth, warm light-grey land; coast 0.4 pt.</td></tr><tr><th>Plate boundaries</th><td>The adopted plate boundaries v2 (D-B117: Gorda Ridge on its axial valley, JdF Ridge on its bathymetric axis with Endeavour from MAPRIDGES, Blanco and Mendocino as straight seismicity segments with their step-overs, Mendocino joined to the PB2002 triple junction) in place of the PB2002 ridges and oceanic transforms; subduction trace PB2002; Fig. 1A shows PB2002 as a faint dashed reference. The straight Axial-Endeavour alternative is not drawn.</td></tr><tr><th>Boundary types</th><td>One colour and one marker per type (ridge, transform, intraplate, triple junction, subduction, crustal, arc; other in grey), checked under protanopia, deuteranopia and tritanopia (Machado 2009); the marker or the segment code always rides with the colour.</td></tr><tr><th>Colour maps</th><td>Crameri SCM (D-B104): Vp batlow reversed (one range 5.6-8.2 km/s), Vp/Vs roma reversed centred on 1.75 (1.60-1.90), dV vik reversed; time lipari, Mc batlow, depth lajolla, surface dip acton.</td></tr><tr><th>Uncertainty</th><td>Fig. 4: the ensemble 1σ of each binned value is its opacity (full colour at small σ, faint at large σ, 2-D key); cells without resolved nodes hatched grey; the water column pale blue.</td></tr><tr><th>Events</th><td>Symbol area from magnitude, one law for all figures (diameter 0.8 pt × 10^(0.2 M)); dense clouds as small translucent dots; size key where size carries magnitude.</td></tr><tr><th>Map furniture</th><td>Scale bar and north arrow on maps; NNR-MORVEL56 relative plate motions as cased arrows.</td></tr><tr><th>No dual axes</th><td>The old Fig. 1D and Fig. 6A each had two y axes; both are now two stacked panels on one time axis.</td></tr><tr><th>Output</th><td>Vector PDF (fonts embedded, dense layers rasterised at 300 dpi) and 300 dpi PNG per figure.</td></tr></table><h3 style='margin-top:22px'>Boundary-type palette</h3><table><tr><th>type</th><th>colour</th><th>marker</th><th>OKLCH L</th><th>OKLCH C</th><th>contrast on white</th></tr><tr><td>ridge</td><td><span class='sw' style='background:#2B6CB0'></span>#2B6CB0</td><td>o</td><td>0.524</td><td>0.126</td><td>5.42</td></tr><tr><td>transform</td><td><span class='sw' style='background:#E06A2C'></span>#E06A2C</td><td>s</td><td>0.657</td><td>0.164</td><td>3.35</td></tr><tr><td>intraplate</td><td><span class='sw' style='background:#16A4AE'></span>#16A4AE</td><td>D</td><td>0.656</td><td>0.108</td><td>3.02</td></tr><tr><td>triple junction</td><td><span class='sw' style='background:#6E4BA3'></span>#6E4BA3</td><td>h</td><td>0.493</td><td>0.138</td><td>6.57</td></tr><tr><td>subduction</td><td><span class='sw' style='background:#557A1F'></span>#557A1F</td><td>v</td><td>0.533</td><td>0.125</td><td>5.01</td></tr><tr><td>crustal</td><td><span class='sw' style='background:#D9A21B'></span>#D9A21B</td><td>^</td><td>0.744</td><td>0.147</td><td>2.3</td></tr><tr><td>arc</td><td><span class='sw' style='background:#D35D8E'></span>#D35D8E</td><td>P</td><td>0.639</td><td>0.157</td><td>3.67</td></tr></table><table><tr><th>pairs</th><th>worst CVD ΔE (protan/deutan)</th><th>worst normal ΔE</th><th>worst tritan ΔE</th><th>verdict</th></tr><tr><td>adjacent (legend order)</td><td>17.0 (subduction / crustal)</td><td>23.4 (crustal / arc)</td><td>7.9 (triple junction / subduction)</td><td>pass</td></tr><tr><td>all pairs</td><td>2.9 (ridge / triple junction)</td><td>11.1 (ridge / triple junction)</td><td>4.2 (transform / arc)</td><td>below floor: marker and label carry identity</td></tr><tr><td>map neighbours</td><td>14.0 (arc / subduction)</td><td>16.5 (ridge / intraplate)</td><td>7.9 (triple junction / subduction)</td><td>pass</td></tr></table><p class='meta'>OKLab ΔE × 100; target ≥ 8 under dichromacy and ≥ 15 for normal vision (dataviz method). Seven hues cannot all be pairwise distinct under dichromacy, so the marker and the segment code carry identity wherever colours meet; the adjacent legend pairs and every pair of types that touch on the map pass.</p><img src='palette_types_cvd.jpg' style='max-width:100%' alt='palette under colour-vision deficiency'>
 <h2 id='rerun'>Rerun</h2>
 <p>One command rebuilds every figure, the manifest and this page from the paths in the configuration:</p>
 <pre>bash workflow/08_figures/run_figures_v2.sh workflow/08_figures/paper_figures_v2.yaml</pre>
@@ -45,8 +46,9 @@ tables (<code>seismicity_metrics</code>, <code>structure_feasibility</code>, <co
 <code>surface_segments</code>), contrasts (<code>circularity_contrasts</code>, <code>null_truth_contrasts</code>),
 <code>depth_vs_level*</code>, the D-B113 axes (<code>plate_axes</code>), clusters, fault surfaces v1, Mc maps, model
 v0.4.2 and its 100 members. Segment codes, names and types come from the tables, so a new segment rule needs no code
-change. After the null-truth score (D-B112) writes <code>null_truth_contrasts.csv</code> into
-<code>/wd1/mdenolle_data/paper_plan/v6.1/tables</code>, Figs. 4 and 5 switch on their own: filled symbols = claimed, the N95
-bands appear, and the captions drop "pending". Null truth not scored yet at this build.</p>
+change; the plate traces come from <code>plate_axes</code> (now <code>plate_axes_v2_adopted.csv</code>, D-B117). Figs. 4
+and 5 read <code>null_truth_contrasts.csv</code> from <code>/wd1/mdenolle_data/paper_plan/v6.1/tables</code> when it exists
+(filled symbols = claimed: 2σ, S95 and N95; N95 bands drawn); without it they mark the D-B111 survivors as "null truth
+pending". Null truth scored: 28 of 105 contrasts claimed at this build.</p>
 <p class='meta'>Configuration: /home/mdenolle/wt_figs2/workflow/08_figures/paper_figures_v2.yaml</p>
 </main></body></html>

diff --git a/reports/index.html b/reports/index.html
@@ -38,7 +38,7 @@ a { color: var(--link); }
     <table>
       <tr><td><a href="plate_boundaries_v2/index.html">Plate boundaries v2 (adopted)</a></td><td>D-B116 proposal, adopted by D-B117 (PI 19:09) with the bathymetric Juan de Fuca axis and the PB2002 triple junction. Mendocino transform 8.6 km north of PB2002, Blanco 6.0 km south with two step-overs (12.4 and 3.1 km), southern Gorda Ridge on the axial valley; each offset larger than the location-bias bound. 727 tier A-C events change segment.</td><td><span class="tag ok">adopted</span></td></tr>
       <tr><td><a href="q1_slip_style.html">Q1: what sets swarm versus mainshock slip style</a></td><td>D-B115, pre-registered 13:26 (commit 109915b8, before any covariate was sampled). Sharp split by setting: 17-29 % of earthquakes are in swarms on the ridges, Blanco and Mount St Helens, against 0.7-2.8 % on the Gorda plate, Mendocino fault zone, triple junction and Gorda slab, robust in every control. Thermal control (plate age, heat flow) inconclusive: the block bootstrap includes zero, and nothing remains within boundary types. In-situ Vp/Vs not testable (27 of 2,097 families valid).</td><td><span class="tag warn">PI review</span></td></tr>
-      <tr><td><a href="figures_v2/index.html">Paper figures v2</a></td><td>D-B114: the six main figures and four supplement figures redrawn in one style for Science Advances (catalog v6.1, model v0.4.2, D-B113 segments), each next to the current paper figure. Crameri colour maps checked for colour-vision deficiency. Figs. 4 and 5 still show contrasts before the null-truth test (D-B112). Nothing is in paper_sciadv/figures yet.</td><td><span class="tag warn">PI review</span></td></tr>
+      <tr><td><a href="figures_v2/index.html">Paper figures v2</a></td><td>D-B114: the six main figures and four supplement figures redrawn in one style for Science Advances (catalog v6.1, model v0.4.2), each next to the current paper figure. Rebuilt on the adopted plate boundaries v2 (D-B117) with the 20-member null truth: Figs. 4 and 5 show the 28 claimed contrasts. Crameri colour maps checked for colour-vision deficiency. Nothing is in paper_sciadv/figures yet.</td><td><span class="tag warn">PI review</span></td></tr>
       <tr><td><a href="q2_depth_limit.html">Q2: what limits earthquake depth</a></td><td>D-B115: base of seismicity against conductive isotherms (350-800 °C) and the 7.5/8.0 km/s levels, pre-registered 13:27. The depth-bias check (control L, rule 13:52) narrows the headline: at Blanco the extra depth is our depth bias (Lange depths put the base at 600-800 °C); only the Gorda plate interior and the Mendocino fault zone stay 10-12 km below 800 °C, which would need 7-9 km of unchecked depth bias to fit. No robust compositional control. Null truth scored on 15 of 20 members.</td><td><span class="tag warn">provisional</span></td></tr>
       <tr><td><a href="plate_boundaries_v61.html">Plate boundaries on catalog v6.1</a></td><td>D-B109/D-B111 on the registered v6.1 catalog, on the adopted boundaries v2 (D-B117): segment table, seismicity style (b, Mc, family mix, depth), structure contrasts with the ensemble, circularity controls and the 20-member null truth (D-B112): 28 of 105 contrasts claimed (31 on the D-B113 axes; none gained, three lost to the circularity rule). Mendocino fault zone lower Vp and Vs; none at Blanco; no Vp/Vs contrast on oceanic boundaries.</td><td><span class="tag ok">current</span></td></tr>
       <tr><td><a href="plate_boundaries_plan.html">Plate boundaries: feasibility and figure plan (v6.0)</a></td><td>D-B107: 19 segments by boundary type; which ones the model resolves near the faults (40 km scale), seismicity style per segment (b, Mc, family mix, depth), structure against seismicity tests, proposed main and supplementary figures with draft mock-ups. Catalog v6.0 stand-in.</td><td><span class="tag warn">PI review</span></td></tr>
